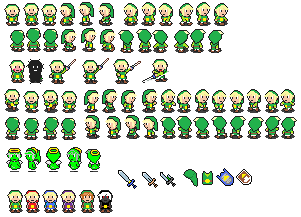
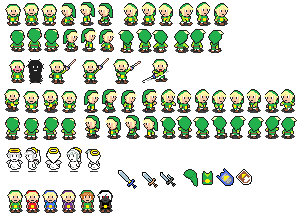
Changed LinkedLists to Lists then ArrayLists
Removed Globals.java
Changed color for HUD hp bar
Added walking animations to the Player (need to add "standing"
animations)

Changed region(s): [[0.0897, 0.0, 0.3887, 0.2488], [0.0299, 0.6912, 0.3289, 0.7742], [0.0, 0.0276, 0.0897, 0.1382]]

diff --git a/src/game/Level.java b/src/game/Level.java
@@ -4,6 +4,7 @@ import items.Container;
 import items.Item;
 
 import java.awt.image.BufferedImage;
+import java.util.ArrayList;
 import java.util.EnumMap;
 import java.util.LinkedList;
 import java.util.List;
@@ -23,22 +24,21 @@ import elements.Renderable;
 
 public class Level {
 	int width, height;
-	LinkedList<Member> moved = new LinkedList<Member>();
+	String bg;
 
+	EnumMap<RenderLayer, List<Renderable>> renders = new EnumMap<RenderLayer, List<Renderable>>(
+			RenderLayer.class);
+	LinkedList<Player> players = new LinkedList<Player>();
+	LinkedList<Member> elements = new LinkedList<Member>();
+	LinkedList<Member> moved = new LinkedList<Member>();
+	private Player mainPlayer;
+	
 	public enum RenderLayer {
 		DECORATION(0), ITEM(1), MAIN(2);
 		RenderLayer(int x) {
 
 		}
 	}
-
-	String bg;
-
-	EnumMap<RenderLayer, LinkedList<Renderable>> renders = new EnumMap<RenderLayer, LinkedList<Renderable>>(
-			RenderLayer.class);
-	LinkedList<Player> players = new LinkedList<Player>();
-	LinkedList<Member> elements = new LinkedList<Member>();
-	private Player mainPlayer;
 
 	public Level(int width, int height) {
 		this.width = width;
@@ -119,9 +119,9 @@ public class Level {
 	}
 
 	private void addRender(RenderLayer rl, Renderable r) {
-		LinkedList<Renderable> currentValue = renders.get(rl);
+		List<Renderable> currentValue = renders.get(rl);
 		if (currentValue == null) {
-			currentValue = new LinkedList<Renderable>();
+			currentValue = new ArrayList<Renderable>();
 			renders.put(rl, currentValue);
 		}
 		currentValue.add(r);
@@ -145,7 +145,7 @@ public class Level {
 		renders.get(i).remove(e);
 	}
 
-	public EnumMap<RenderLayer, LinkedList<Renderable>> getRenders() {
+	public EnumMap<RenderLayer, List<Renderable>> getRenders() {
 		return renders;
 	}
 
@@ -154,11 +154,11 @@ public class Level {
 				: false;
 	}
 
-	public LinkedList<Renderable> getSorted(LinkedList<Renderable> in) {
-		return sort(in);
+	public List<Renderable> getSorted(List<Renderable> old) {
+		return sort(old);
 	}
 
-	private LinkedList<Renderable> sort(LinkedList<Renderable> in) {
+	private List<Renderable> sort(List<Renderable> in) {
 		TreeMap<Integer, Renderable> vals = new TreeMap<Integer, Renderable>();
 
 		for (Renderable r : in) {
@@ -168,7 +168,7 @@ public class Level {
 				vals.put((int) (r.getY() + r.getHeight() + 1), r);
 			}
 		}
-		return new LinkedList<Renderable>(vals.values());
+		return new ArrayList<Renderable>(vals.values());
 	}
 
 	public List<Renderable> getVisible(View v) {
@@ -234,7 +234,7 @@ public class Level {
 		}
 		if (!moved.isEmpty()) {
 			if (renders.containsKey(RenderLayer.MAIN)) {
-				LinkedList<Renderable> old = new LinkedList<Renderable>(
+				List<Renderable> old = new ArrayList<Renderable>(
 						renders.get(RenderLayer.MAIN));
 				renders.put(RenderLayer.MAIN, getSorted(old));
 			}

diff --git a/src/characters/Player.java b/src/characters/Player.java
@@ -4,8 +4,9 @@ import items.Container;
 import items.Item;
 
 import java.awt.image.BufferedImage;
+import java.util.ArrayList;
 import java.util.HashMap;
-import java.util.LinkedList;
+import java.util.List;
 import java.util.Random;
 
 import loaders.ResourceLoader;
@@ -13,8 +14,6 @@ import utilities.Clock;
 import utilities.Console;
 import utilities.Console.in;
 import utilities.Functor;
-import utilities.Globals;
-import utilities.Globals.Direction;
 import utilities.Images;
 import utilities.Images.EXT;
 import utilities.PlayerStats;
@@ -29,10 +28,14 @@ import graphics.Animation;
 
 public class Player extends Member implements Renderable, Collidable,
 		Interactable, Clickable {
-
+	
+	public enum Direction{
+		UP,LEFT,RIGHT,DOWN
+	}
+	
 	public static final double interactdistance = 100;
 	public static double attackDistance = 75;
-	protected Globals.Direction direction = Globals.Direction.UP;
+	protected Direction direction = Direction.UP;
 	protected boolean mainPlayer = false;
 	protected Position old;
 	protected String imgID;
@@ -55,17 +58,13 @@ public class Player extends Member implements Renderable, Collidable,
 	public Player() {
 		super();
 		captureOld();
-		Animation left = new Animation(1000, true);
-		left.addImage("link_2.png");
+		Animation left = ResourceLoader.getAnimationFromSheet("link_sheet.png", 59, 2, 18, 24, "left", 3, 200, true);
 		
-		Animation right = new Animation(1000, true);
-		right.addImage("link_4.png");
+		Animation right = ResourceLoader.getAnimationFromSheet("link_sheet.png", 62, 28, 18, 24, "right", 3, 200, true);
 		
-		Animation up = new Animation(1000, true);
-		up.addImage("link_3.png");
+		Animation up = ResourceLoader.getAnimationFromSheet("link_sheet.png", 9, 28, 17, 24, "up", 3, 200, true);
 		
-		Animation down = new Animation(1000, true);
-		down.addImage("link_1.png");
+		Animation down = ResourceLoader.getAnimationFromSheet("link_sheet.png", 4, 3, 18, 23, "down", 3, 200, true);
 		
 		//Animation die = ResourceLoader.getAnimationFromSheet("link_die.png", 0, 0, 18, 25, "die", 5, 2000, false);
 		Animation die = new Animation(1000, false);
@@ -340,8 +339,8 @@ public class Player extends Member implements Renderable, Collidable,
 		return diff / ((double) stats.speed * 1000);
 	}
 
-	public void dropItems(LinkedList<Item> keys) {
-		LinkedList<Item> temp = new LinkedList<Item>(keys);
+	public void dropItems(List<Item> keys) {
+		List<Item> temp = new ArrayList<Item>(keys);
 		for (Item key : temp) {
 			dropItem(key);
 		}

diff --git a/src/graphics/Animation.java b/src/graphics/Animation.java
@@ -2,6 +2,7 @@ package graphics;
 
 import java.awt.image.BufferedImage;
 import java.util.LinkedList;
+import java.util.List;
 
 import utilities.Console;
 import utilities.Console.in;
@@ -9,7 +10,7 @@ import utilities.Images;
 import utilities.Images.EXT;
 
 public class Animation {
-	LinkedList<String> images = new LinkedList<String>();
+	List<String> images = new LinkedList<String>();
 	int index = 0;
 	double last_frame_t, duration;
 	boolean loop;
@@ -19,7 +20,7 @@ public class Animation {
 		this.loop = loop;
 	}
 
-	public void setImages(LinkedList<String> input) {
+	public void setImages(List<String> input) {
 		images = input;
 	}
 
@@ -30,19 +31,20 @@ public class Animation {
 
 	public BufferedImage getNext() {
 		if (images.size() == 1) {
-			return Images.get(images.getFirst());
+			return Images.get(images.get(0));
 		}
-		if (System.nanoTime() / 1000 > duration + last_frame_t) {
+		if (System.currentTimeMillis() > duration + last_frame_t) {
 			index++;
-			last_frame_t = System.nanoTime() / 1000;
+			last_frame_t = System.currentTimeMillis();
 		}
 		if (index >= images.size()) {
 			if(loop){
-				index = 1;
+				index = 0;
 			}else{
 				index = images.size()-1;
 			}
 		}
+		Console.log("index: " + index, in.INFO);
 		return Images.get(images.get(index));
 	}
 

diff --git a/src/gui/HUD/HBars.java b/src/gui/HUD/HBars.java
@@ -10,8 +10,8 @@ import characters.Player;
 public class HBars extends HElement {
 
 	Player p;
-	Color hp1 = Color.black, hp2 = Color.cyan, mana1 = Color.black,
-			mana2 = Color.blue, attk1 = Color.black, attk2 = Color.green;
+	Color hp1 = Color.red, hp2 = Color.green, mana1 = Color.black,
+			mana2 = Color.blue, attk1 = Color.black, attk2 = Color.cyan;
 
 	public HBars(int x, int y, int width, int height, Player p) {
 		super(x, y, width, height);

diff --git a/src/game/Game.java b/src/game/Game.java
@@ -15,11 +15,10 @@ import loaders.LevelLoader;
 import utilities.Clock;
 import utilities.Console;
 import utilities.Console.in;
-import utilities.Globals.Direction;
 import utilities.Keyboard;
 import utilities.Mouse;
 import characters.Player;
-
+import characters.Player.Direction;
 public class Game {
 	private Keyboard k;
 	private Mouse m;

diff --git a/src/utilities/Timer.java b/src/utilities/Timer.java
@@ -39,7 +39,6 @@ public class Timer {
 	}
 
 	public boolean isDone() {
-		// TODO Auto-generated method stub
 		return done;
 	}
 
